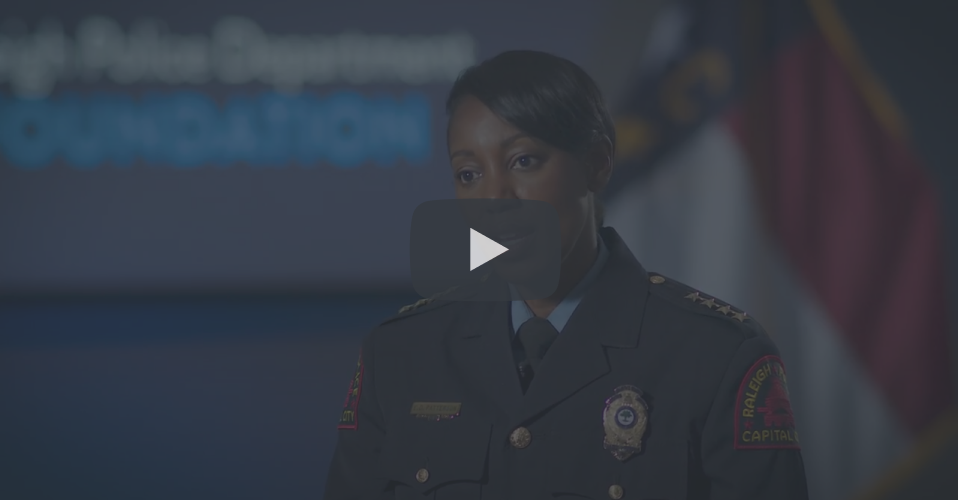
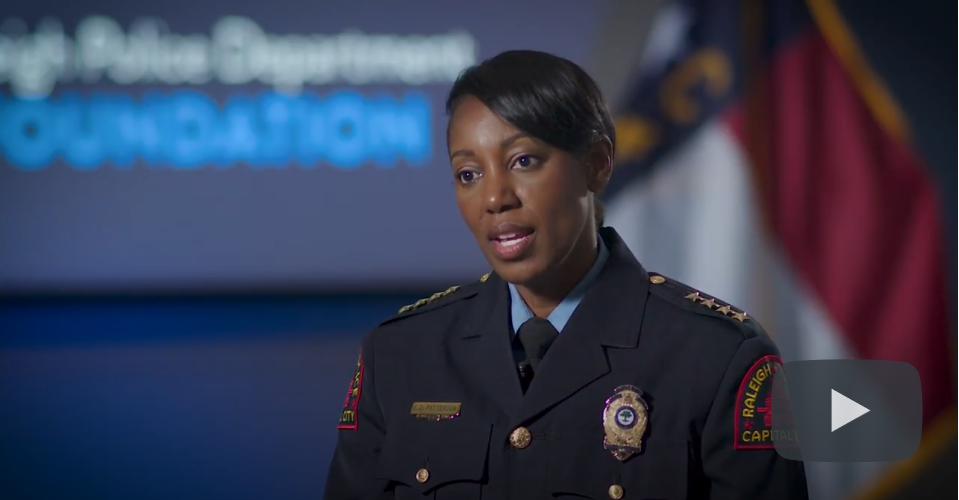
video thumbnail cleanup and smaller images

diff --git a/pages/Our-Work.tsx b/pages/Our-Work.tsx
@@ -1,9 +1,9 @@
 import Navbar from "../components/layout/Navbar";
-import heroImg from "../public/ourworkhero_crop.png"
-import c1 from "../public/rpdf_tech6.jpg"
-import c2 from "../public/training.png"
-import c3 from "../public/officerSmile.jpg"
-import c4 from "../public/community.png"
+import heroImg from "../public/ourworkhero_sm.png"
+import c1 from "../public/our-work-tech.png"
+import c2 from "../public/our-work-training.png"
+import c3 from "../public/our-work-support.png"
+import c4 from "../public/our-work-community.png"
 import Image from "next/image";
 import styles from '../styles/OurWork.module.scss'
 import ContactForm from "../components/ContactForm";
@@ -28,13 +28,13 @@ const OurWork = () => {
         </div>
         <section className={`${styles.section} container-fluid`}>
           <div className={styles.grid}>
-            <div className={`${styles.card} mx-auto text-center pt-2`}>
+            <div className={`${styles.card} mx-auto text-center p-2`}>
               <h2>Innovation & Equipment</h2>
               <Image src={c1} alt="Innovation & Equipment" className={'text-center rounded-2'} width={450} height={300} layout="responsive" />
               <p className={styles.text}>By providing better technology, education and programming, the RPDF is dedicated to assuring safer neighborhoods and a highly-skilled and equipped police force.</p>
             </div>
 
-            <div className={`${styles.card} mx-auto text-center pt-2`}>
+            <div className={`${styles.card} mx-auto text-center p-2`}>
               <h2>Advanced Training & Leadership</h2>
               <Image src={c2} alt="Advanced Training & Leadership" className="rounded-2" width={450} height={300} layout="responsive" />
               <p className={styles.text}>Funding specialty skills training and leadership development opportunities that strengthen the RPD and its ability to keep our communities safe.</p>
@@ -51,13 +51,13 @@ const OurWork = () => {
 
         <section className={`${styles.section} container-fluid`}>
           <div className={styles.grid}>
-            <div className={`${styles.card} mx-auto text-center pt-2`}>
+            <div className={`${styles.card} mx-auto text-center p-2`}>
               <h2>Supporting Our Officers</h2>
               <Image src={c3} alt="Supporting Our Officers" className="rounded-2" width={450} height={300} layout="responsive" />
               <p className={styles.text}>Honoring fallen heroes, and/or aiding police officers and their families who are seriously injured in the line of duty.</p>
             </div>
 
-            <div className={`${styles.card} mx-auto text-center pt-2`}>
+            <div className={`${styles.card} mx-auto text-center p-2`}>
               <h2>Community Impact</h2>
               <Image src={c4} alt="Community Support" className="rounded-2" width={450} height={300} layout="responsive" />
               <p className={styles.text}>Strengthening our community through youth and outreach programs, internships and scholarships to support tomorrow’s police force.</p>

diff --git a/pages/Meet-RPD.tsx b/pages/Meet-RPD.tsx
@@ -7,10 +7,10 @@ import HeroImage from "../components/layout/HeroImage";
 import Navbar from "../components/layout/Navbar";
 import VideoModal from "../components/layout/VideoModal";
 import heroImg from "../media/rpdf-hero-3.png";
-import BrownVideo from "../public/videoStill-Brown.png";
-import KidderVideo from "../public/videoStill-Kidder.png";
-import RodriguesVideo from "../public/videoStill-Rodrigues.png";
-import ThompsonVideo from "../public/videoStill-Thompson.png";
+import BrownVideo from "../public/video-Brown.png";
+import KidderVideo from "../public/video-Kidder.png";
+import RodriguesVideo from "../public/video-Rodrigues.png";
+import ThompsonVideo from "../public/video-Thompson.png";
 import styles from '../styles/MeetRPD.module.scss';
 
 const officerData = [

diff --git a/pages/about.tsx b/pages/about.tsx
@@ -151,7 +151,7 @@ const About = () => {
           ))}
         </div>
       </div>
-      <div className="container-fluid bg-light border-top pb-5">
+      {/* <div className="container-fluid bg-light border-top pb-5">
         <h2 className="text-center mt-5">Hear from Our Donors</h2>
         <div className={`container`}>
           <div className="row row-align-center my-3 g-5">
@@ -173,7 +173,7 @@ const About = () => {
             ))}
           </div>
         </div>
-      </div>
+      </div> */}
 
 
       <ContactForm />
